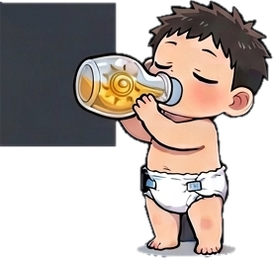
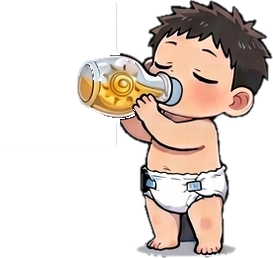
ポーズごとの元絵の向きを表にして、反転を正しくかけるようにした
手描きシートは基本が右向きだが、ロール・エスト瓶・被弾の3ポーズだけ
左向きに描かれていた。renderer.js が「ロール以外は右向き」と決め打ちして
いたため、エスト瓶と被弾で左右が逆になっていた。

- LEFT_FACING_POSES = ['Roll', 'Heal', 'Hurt'] を追加し、
  元絵の向きとゲーム内の向きが違うときだけ反転するようにした
- 全42枚を反転後の状態で目視確認し、すべて敵の方を向くことを確認

player_heal に残っていた説明用の枠（塗りつぶし＋枠線＋細線）を除去。
囲まれて取り残された背景は縁と繋がらないため最初の切り抜きで残ってしまう。
split_sheet.py に drop_enclosed_background を足して、
「色が一様で矩形にみっちり詰まっている」ものだけを消すようにした
（髪や服は濃淡があるので巻き込まない）。

シートからゲームへ入れる手順を tools/install_sheets.py として残した。
並び順とポーズ名の対応、待機ポーズを基準にした倍率の計算が入っている。

Claude-Session: https://claude.ai/code/session_01KgLWCU9c4r7PjA9VyrGoXr

Changed region(s): [[0.0, 0.0, 0.4982, 0.5891], [0.4396, 0.2171, 0.4689, 0.2481], [0.3516, 0.2791, 0.381, 0.3101]]

diff --git a/js/renderer.js b/js/renderer.js
@@ -59,9 +59,12 @@ function drawArenaEdges(ctx, worldW, logicalH, groundY) {
   ctx.restore();
 }
 
-// 生成された元絵は転がりのポーズだけ左向きに描かれている
+// 元絵がどちら向きに描かれているかはポーズによって違う。
+// 右向きが基本で、ここに挙げたポーズだけ左向きに描かれている
+const LEFT_FACING_POSES = ['Roll', 'Heal', 'Hurt'];
+
 function sourceFacing(key) {
-  return key.endsWith('Roll') ? -1 : 1;
+  return LEFT_FACING_POSES.some((pose) => key.endsWith(pose)) ? -1 : 1;
 }
 
 function drawSprite(ctx, img, key, { x, bottomY, height, facing, rotation = 0, alpha = 1, filter = null }) {

diff --git a/tools/split_sheet.py b/tools/split_sheet.py
@@ -72,6 +72,40 @@ def split_auto(img: Image.Image, opaque: np.ndarray, merge: int, min_area: int, 
     return boxes
 
 
+def drop_enclosed_background(piece: Image.Image, bg, tolerance: int = 14) -> Image.Image:
+    """囲まれて取り残された背景（説明用の枠の内側など）を消す。
+
+    縁から繋がっていない背景は最初の切り抜きでは残ってしまう。
+    髪や服を巻き込まないよう「色が一様で矩形にみっちり詰まっている」ものだけを消す。
+    """
+    a = np.asarray(piece).copy()
+    rgb = a[..., :3].astype(np.int16)
+    al = a[..., 3] > 60
+    dist = np.sqrt(((rgb - np.array(bg)) ** 2).sum(axis=2))
+    bgish = al & (dist < tolerance)
+    if bgish.sum() < 1500:
+        return piece
+
+    labels, count = ndimage.label(bgish)
+    changed = False
+    for i in range(1, count + 1):
+        m = labels == i
+        area = int(m.sum())
+        if area < 2000:
+            continue
+        ys, xs = np.nonzero(m)
+        fill = area / ((ys.max() - ys.min() + 1) * (xs.max() - xs.min() + 1))
+        var = float(rgb[m].std(axis=0).mean())
+        if var < 4.0 and fill > 0.85:
+            a[..., 3] = np.where(m, 0, a[..., 3])
+            changed = True
+    if not changed:
+        return piece
+    out = Image.fromarray(a, "RGBA")
+    bbox = out.getbbox()
+    return out.crop(bbox) if bbox else out
+
+
 def keep_largest(piece: Image.Image, pad: int = 6) -> Image.Image:
     """1コマの中から本体だけを残す。
 
@@ -153,6 +187,9 @@ def main():
     args = ap.parse_args()
 
     img = Image.open(args.image)
+    corners = np.asarray(img.convert("RGB"))
+    bg_color = np.concatenate([corners[0, 0], corners[0, -1],
+                               corners[-1, 0], corners[-1, -1]]).reshape(4, 3).mean(axis=0)
     bg = background_mask(img, args.tolerance)
     opaque = ndimage.binary_erosion(~bg, iterations=1)
     rgba = to_rgba(img, opaque)
@@ -174,6 +211,7 @@ def main():
         if bbox:
             piece = piece.crop(bbox)
         if not args.no_clean:
+            piece = drop_enclosed_background(piece, bg_color, args.tolerance // 2 + 4)
             piece = keep_largest(piece)
         if args.names and i < len(args.names):
             name = f"{args.prefix}_{args.names[i]}" if args.prefix else args.names[i]

diff --git a/tools/install_sheets.py b/tools/install_sheets.py
@@ -1,0 +1,44 @@
+"""切り分けたコマを、ゲームで使う名前とサイズで assets/ に入れる。
+
+    <ComfyUIのvenv>/bin/python tools/split_sheet.py <シート> --out /tmp/out/sword ...
+    <ComfyUIのvenv>/bin/python tools/install_sheets.py
+
+
+同じシートに同じ縮尺で描かれているので、キャラごとに1つの倍率をかけるだけで
+ポーズ間の大きさが揃う（従来のように後から相対サイズを補正する必要がない）。
+"""
+import os
+from pathlib import Path
+from PIL import Image
+
+ROOT = Path('/home/ryuuichi/projects/babyden-ring')
+SRC = Path(os.environ.get('SHEET_DIR', '/tmp/sheet_out'))  # split_sheet.py の出力先
+
+# 待機ポーズをこの高さにし、他のポーズは同じ倍率で拡縮する
+IDLE_HEIGHT = 260
+
+# シート上の並び順 → ゲーム内の名前
+ORDER = {
+    'sword':  ['portrait', 'idle', 'run', 'run2', 'attack', 'swing', 'charge2', 'charge3',
+               'parry', 'jump', 'roll', 'heal', 'hurt', 'stagger'],
+    'hammer': ['portrait', 'idle', 'run', 'run2', 'attack', 'swing', 'charge2', 'charge3',
+               'parry', 'jump', 'roll', 'heal', 'hurt', 'stagger'],
+    'bow':    ['portrait', 'idle', 'run', 'run2', 'attack', 'swing', 'charge2', 'charge3',
+               'jump', 'roll', 'parry', 'heal', 'hurt', 'stagger'],
+}
+FILE_PREFIX = {'sword': 'player', 'hammer': 'hammer', 'bow': 'bow'}
+
+for group, names in ORDER.items():
+    files = sorted((SRC / group).glob('*.png'))
+    assert len(files) == len(names), f'{group}: {len(files)}枚 / 名前{len(names)}個'
+    pieces = {n: Image.open(f).convert('RGBA') for n, f in zip(names, files)}
+
+    k = IDLE_HEIGHT / pieces['idle'].height
+    print(f'--- {group} (倍率 {k:.3f}) ---')
+    for name, img in pieces.items():
+        w = max(1, round(img.width * k))
+        h = max(1, round(img.height * k))
+        out = img.resize((w, h), Image.LANCZOS)
+        path = ROOT / 'assets' / f'{FILE_PREFIX[group]}_{name}.png'
+        out.save(path, optimize=True)
+        print(f'  {path.name:26s} {w}x{h}  {path.stat().st_size // 1024}KB')

diff --git a/README.md b/README.md
@@ -199,6 +199,8 @@ combo3: {
 
 溜めの段階がキャラごとに違うため、`bow_charge2` `bow_charge3` `player_charge3` は現状の設定では使われない。
 
+元絵の向きはポーズによって違う。基本は右向きで、**ロール・エスト瓶・被弾の3つだけ左向き**に描かれている。この対応は `js/renderer.js` の `LEFT_FACING_POSES` に書いてあり、ゲーム内の向きと合わない絵は描画時に左右反転される。ポーズを追加・差し替えするときはここを確認すること。
+
 ## 素材の生成
 
 ローカルのComfyUIを使う。先にサーバーを起動しておく。
@@ -225,7 +227,16 @@ python3 tools/gen_assets.py bow_idle        # 一部だけ作り直す
 ~/projects/twitter-manga-bot/comfyui/ComfyUI/.venv/bin/python tools/make_logo.py
 ```
 
-ここで生成するのはボスと背景。主人公のポーズは手描きシートから切り出す（`tools/split_sheet.py`）。背景を抜いて1体ずつに切り分け、見出しの文字や枠は自動で除去する。
+ここで生成するのはボスと背景。主人公のポーズは手描きシートから切り出す。背景を抜いて1体ずつに切り分け、見出しの文字や枠は自動で除去する。
+
+```bash
+V=~/projects/twitter-manga-bot/comfyui/ComfyUI/.venv/bin/python
+$V tools/split_sheet.py sheet_sword.png --out /tmp/sheet_out/sword --prefix sword \
+   --tolerance 34 --merge 8 --min-area 4000 --min-height 110
+SHEET_DIR=/tmp/sheet_out $V tools/install_sheets.py
+```
+
+`install_sheets.py` が並び順をゲーム内の名前に対応づけ、待機ポーズを基準にした1つの倍率で全ポーズを書き出す。
 
 ```bash
 # 自動分割（繋がっている塊を1体とみなす）。左から順に名前を割り当てられる
